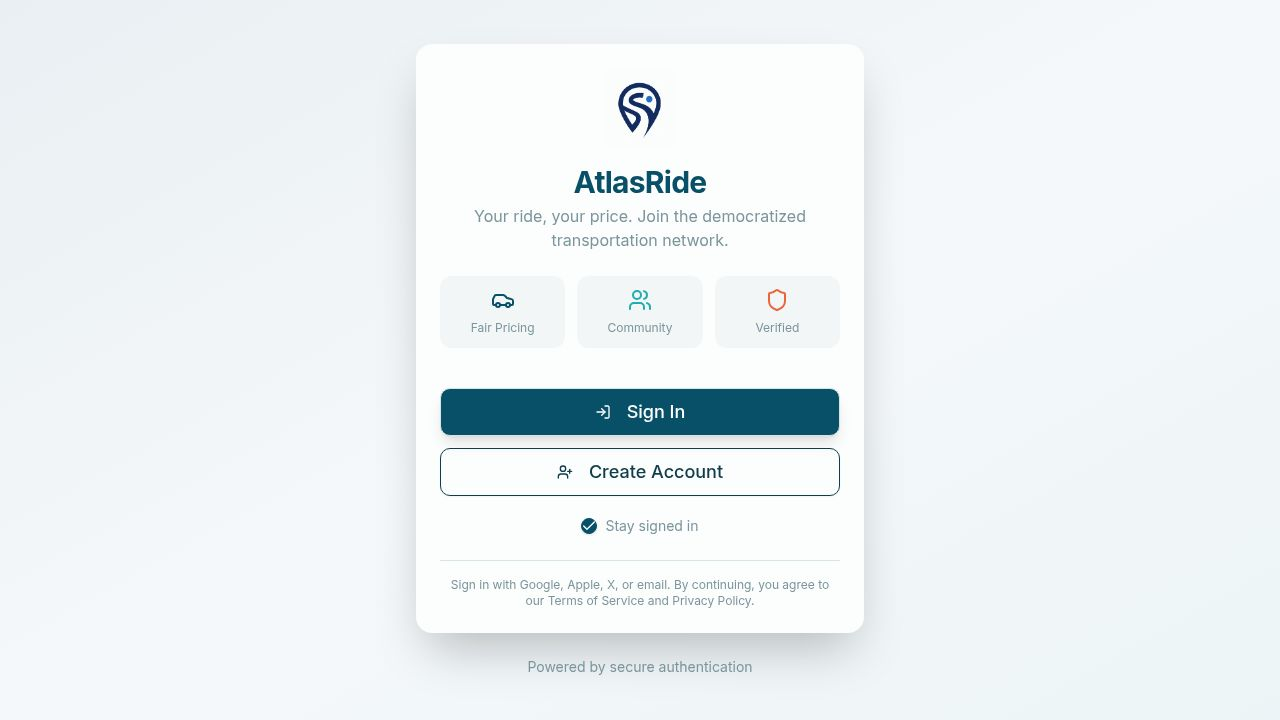
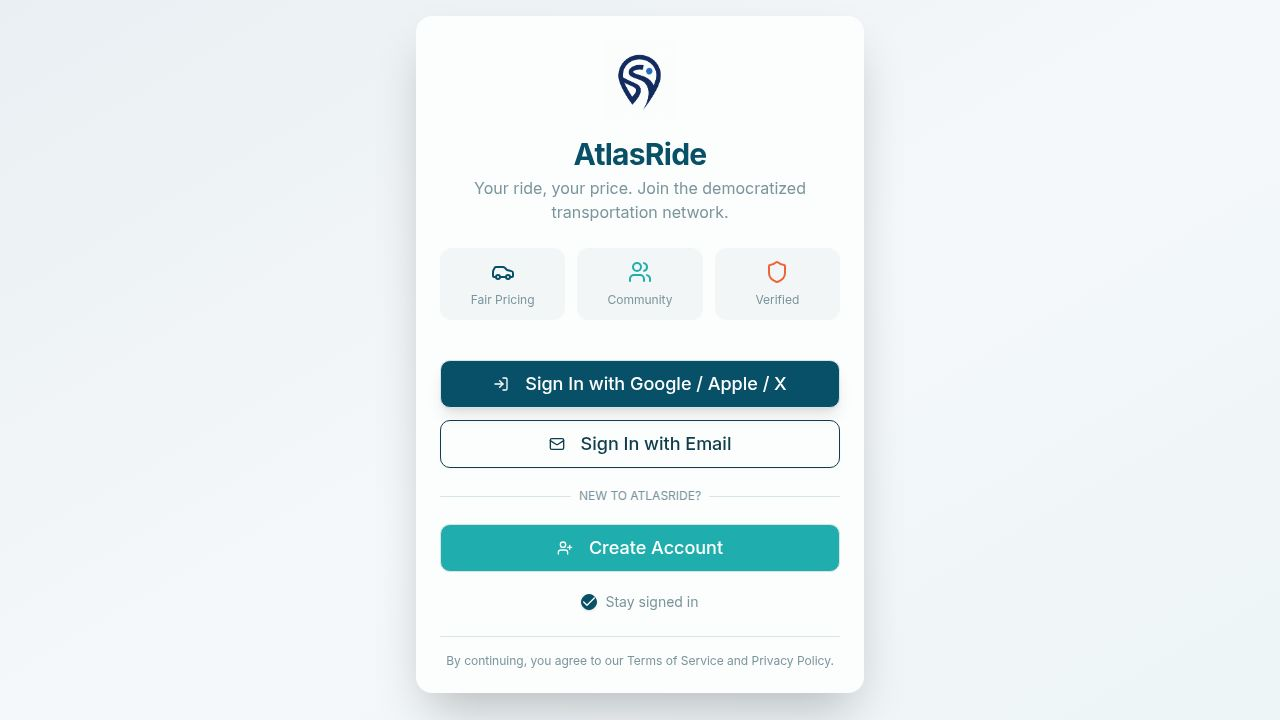
Offer multiple login and signup options for users
Update the authentication page to provide choices for signing in or signing up via email, phone number, or social accounts (Google, Apple, X), and adjust the login page's social login button text.

Replit-Commit-Author: Agent
Replit-Commit-Session-Id: 01020bec-6dc9-4751-9968-369558b8d503
Replit-Commit-Checkpoint-Type: full_checkpoint
Replit-Commit-Event-Id: a3da4543-8b26-496a-b06a-507ada422310
Replit-Commit-Screenshot-Url: https://storage.googleapis.com/screenshot-production-us-central1/d7a3a45f-d67a-415c-9350-f3c24516e109/01020bec-6dc9-4751-9968-369558b8d503/o50GUol
Replit-Helium-Checkpoint-Created: true

diff --git a/client/src/pages/auth.tsx b/client/src/pages/auth.tsx
@@ -3,33 +3,44 @@ import { Link } from "wouter";
 import { Button } from "@/components/ui/button";
 import { Card, CardContent, CardDescription, CardHeader, CardTitle } from "@/components/ui/card";
 import { Checkbox } from "@/components/ui/checkbox";
-import { MapPin, Car, Users, Shield, Loader2, UserPlus, LogIn } from "lucide-react";
+import { Separator } from "@/components/ui/separator";
+import { MapPin, Car, Users, Shield, Loader2, UserPlus, LogIn, Mail, Phone, Chrome, Apple } from "lucide-react";
 import atlasRideLogo from "@assets/AtlasRide_Logo_Design_1765317206292.png";
 import { PhoneVerificationModal } from "@/components/PhoneVerificationModal";
 
 export default function AuthPage() {
   const [rememberMe, setRememberMe] = useState(true);
-  const [isLoading, setIsLoading] = useState<'signin' | 'signup' | null>(null);
+  const [isLoading, setIsLoading] = useState<string | null>(null);
   const [showPhoneVerification, setShowPhoneVerification] = useState(false);
+  const [showSignUpOptions, setShowSignUpOptions] = useState(false);
 
-  const handleSignIn = () => {
-    setIsLoading('signin');
+  const handleSocialSignIn = () => {
+    setIsLoading('social');
     const loginUrl = rememberMe ? "/api/login?remember=true" : "/api/login";
     window.location.href = loginUrl;
   };
 
-  const handleSignUpClick = () => {
+  const handleEmailSignUp = () => {
+    localStorage.setItem('atlasride_signup', 'true');
+    window.location.href = "/signup";
+  };
+
+  const handlePhoneSignUp = () => {
     setShowPhoneVerification(true);
   };
 
   const handlePhoneVerified = (phoneNumber: string, verificationToken: string) => {
     setShowPhoneVerification(false);
-    setIsLoading('signup');
+    setIsLoading('phone');
     localStorage.setItem('atlasride_signup', 'true');
     localStorage.setItem('atlasride_verified_phone', phoneNumber);
     localStorage.setItem('atlasride_phone_token', verificationToken);
     const loginUrl = rememberMe ? "/api/login?remember=true" : "/api/login";
     window.location.href = loginUrl;
+  };
+
+  const handleEmailSignIn = () => {
+    window.location.href = "/login";
   };
 
   return (
@@ -65,67 +76,160 @@ export default function AuthPage() {
             </div>
           </div>
 
-          <div className="space-y-3">
-            <Button 
-              onClick={handleSignIn}
-              className="w-full h-12 text-lg shadow-lg"
-              size="lg"
-              disabled={isLoading !== null}
-              data-testid="button-signin"
-            >
-              {isLoading === 'signin' ? (
-                <>
-                  <Loader2 className="mr-2 h-5 w-5 animate-spin" />
-                  Connecting...
-                </>
-              ) : (
-                <>
-                  <LogIn className="mr-2 h-5 w-5" />
-                  Sign In
-                </>
-              )}
-            </Button>
-
-            <Button 
-              onClick={handleSignUpClick}
-              variant="outline"
-              className="w-full h-12 text-lg"
-              size="lg"
-              disabled={isLoading !== null}
-              data-testid="button-signup"
-            >
-              {isLoading === 'signup' ? (
-                <>
-                  <Loader2 className="mr-2 h-5 w-5 animate-spin" />
-                  Connecting...
-                </>
-              ) : (
-                <>
-                  <UserPlus className="mr-2 h-5 w-5" />
-                  Create Account
-                </>
-              )}
-            </Button>
-
-            <div className="flex items-center justify-center space-x-2 pt-2">
-              <Checkbox 
-                id="remember" 
-                checked={rememberMe}
-                onCheckedChange={(checked) => setRememberMe(checked as boolean)}
-                data-testid="checkbox-remember"
-              />
-              <label
-                htmlFor="remember"
-                className="text-sm text-muted-foreground cursor-pointer select-none"
+          {!showSignUpOptions ? (
+            <div className="space-y-3">
+              {/* Sign In Options */}
+              <Button 
+                onClick={handleSocialSignIn}
+                className="w-full h-12 text-lg shadow-lg"
+                size="lg"
+                disabled={isLoading !== null}
+                data-testid="button-social-signin"
               >
-                Stay signed in
-              </label>
+                {isLoading === 'social' ? (
+                  <>
+                    <Loader2 className="mr-2 h-5 w-5 animate-spin" />
+                    Connecting...
+                  </>
+                ) : (
+                  <>
+                    <LogIn className="mr-2 h-5 w-5" />
+                    Sign In with Google / Apple / X
+                  </>
+                )}
+              </Button>
+
+              <Button 
+                onClick={handleEmailSignIn}
+                variant="outline"
+                className="w-full h-12 text-lg"
+                size="lg"
+                disabled={isLoading !== null}
+                data-testid="button-email-signin"
+              >
+                <Mail className="mr-2 h-5 w-5" />
+                Sign In with Email
+              </Button>
+
+              <div className="relative py-2">
+                <div className="absolute inset-0 flex items-center">
+                  <Separator />
+                </div>
+                <div className="relative flex justify-center text-xs uppercase">
+                  <span className="bg-card px-2 text-muted-foreground">New to AtlasRide?</span>
+                </div>
+              </div>
+
+              <Button 
+                onClick={() => setShowSignUpOptions(true)}
+                variant="secondary"
+                className="w-full h-12 text-lg"
+                size="lg"
+                disabled={isLoading !== null}
+                data-testid="button-show-signup"
+              >
+                <UserPlus className="mr-2 h-5 w-5" />
+                Create Account
+              </Button>
+
+              <div className="flex items-center justify-center space-x-2 pt-2">
+                <Checkbox 
+                  id="remember" 
+                  checked={rememberMe}
+                  onCheckedChange={(checked) => setRememberMe(checked as boolean)}
+                  data-testid="checkbox-remember"
+                />
+                <label
+                  htmlFor="remember"
+                  className="text-sm text-muted-foreground cursor-pointer select-none"
+                >
+                  Stay signed in
+                </label>
+              </div>
             </div>
-          </div>
+          ) : (
+            <div className="space-y-3">
+              <p className="text-sm text-center text-muted-foreground mb-4">
+                Choose how you'd like to create your account
+              </p>
+
+              <Button 
+                onClick={handleEmailSignUp}
+                className="w-full h-12 text-lg shadow-lg"
+                size="lg"
+                disabled={isLoading !== null}
+                data-testid="button-email-signup"
+              >
+                <Mail className="mr-2 h-5 w-5" />
+                Sign Up with Email
+              </Button>
+
+              <Button 
+                onClick={handlePhoneSignUp}
+                variant="outline"
+                className="w-full h-12 text-lg"
+                size="lg"
+                disabled={isLoading !== null}
+                data-testid="button-phone-signup"
+              >
+                {isLoading === 'phone' ? (
+                  <>
+                    <Loader2 className="mr-2 h-5 w-5 animate-spin" />
+                    Connecting...
+                  </>
+                ) : (
+                  <>
+                    <Phone className="mr-2 h-5 w-5" />
+                    Sign Up with Phone
+                  </>
+                )}
+              </Button>
+
+              <div className="relative py-2">
+                <div className="absolute inset-0 flex items-center">
+                  <Separator />
+                </div>
+                <div className="relative flex justify-center text-xs uppercase">
+                  <span className="bg-card px-2 text-muted-foreground">Or continue with</span>
+                </div>
+              </div>
+
+              <Button 
+                onClick={handleSocialSignIn}
+                variant="secondary"
+                className="w-full h-12 text-lg"
+                size="lg"
+                disabled={isLoading !== null}
+                data-testid="button-social-signup"
+              >
+                {isLoading === 'social' ? (
+                  <>
+                    <Loader2 className="mr-2 h-5 w-5 animate-spin" />
+                    Connecting...
+                  </>
+                ) : (
+                  <>
+                    <Chrome className="mr-2 h-5 w-5" />
+                    Google / Apple / X
+                  </>
+                )}
+              </Button>
+
+              <Button 
+                onClick={() => setShowSignUpOptions(false)}
+                variant="ghost"
+                className="w-full"
+                size="sm"
+                data-testid="button-back-signin"
+              >
+                ← Back to Sign In
+              </Button>
+            </div>
+          )}
 
           <div className="pt-4 border-t">
             <p className="text-xs text-center text-muted-foreground">
-              Sign in with Google, Apple, X, or email. By continuing, you agree to our Terms of Service and Privacy Policy.
+              By continuing, you agree to our Terms of Service and Privacy Policy.
             </p>
           </div>
         </CardContent>

diff --git a/client/src/pages/login.tsx b/client/src/pages/login.tsx
@@ -126,7 +126,7 @@ export default function Login() {
 
               <a href="/api/login">
                 <Button variant="outline" className="w-full" data-testid="button-social-login">
-                  Sign in with Replit
+                  Sign in with Google / Apple / X
                 </Button>
               </a>
             </div>
